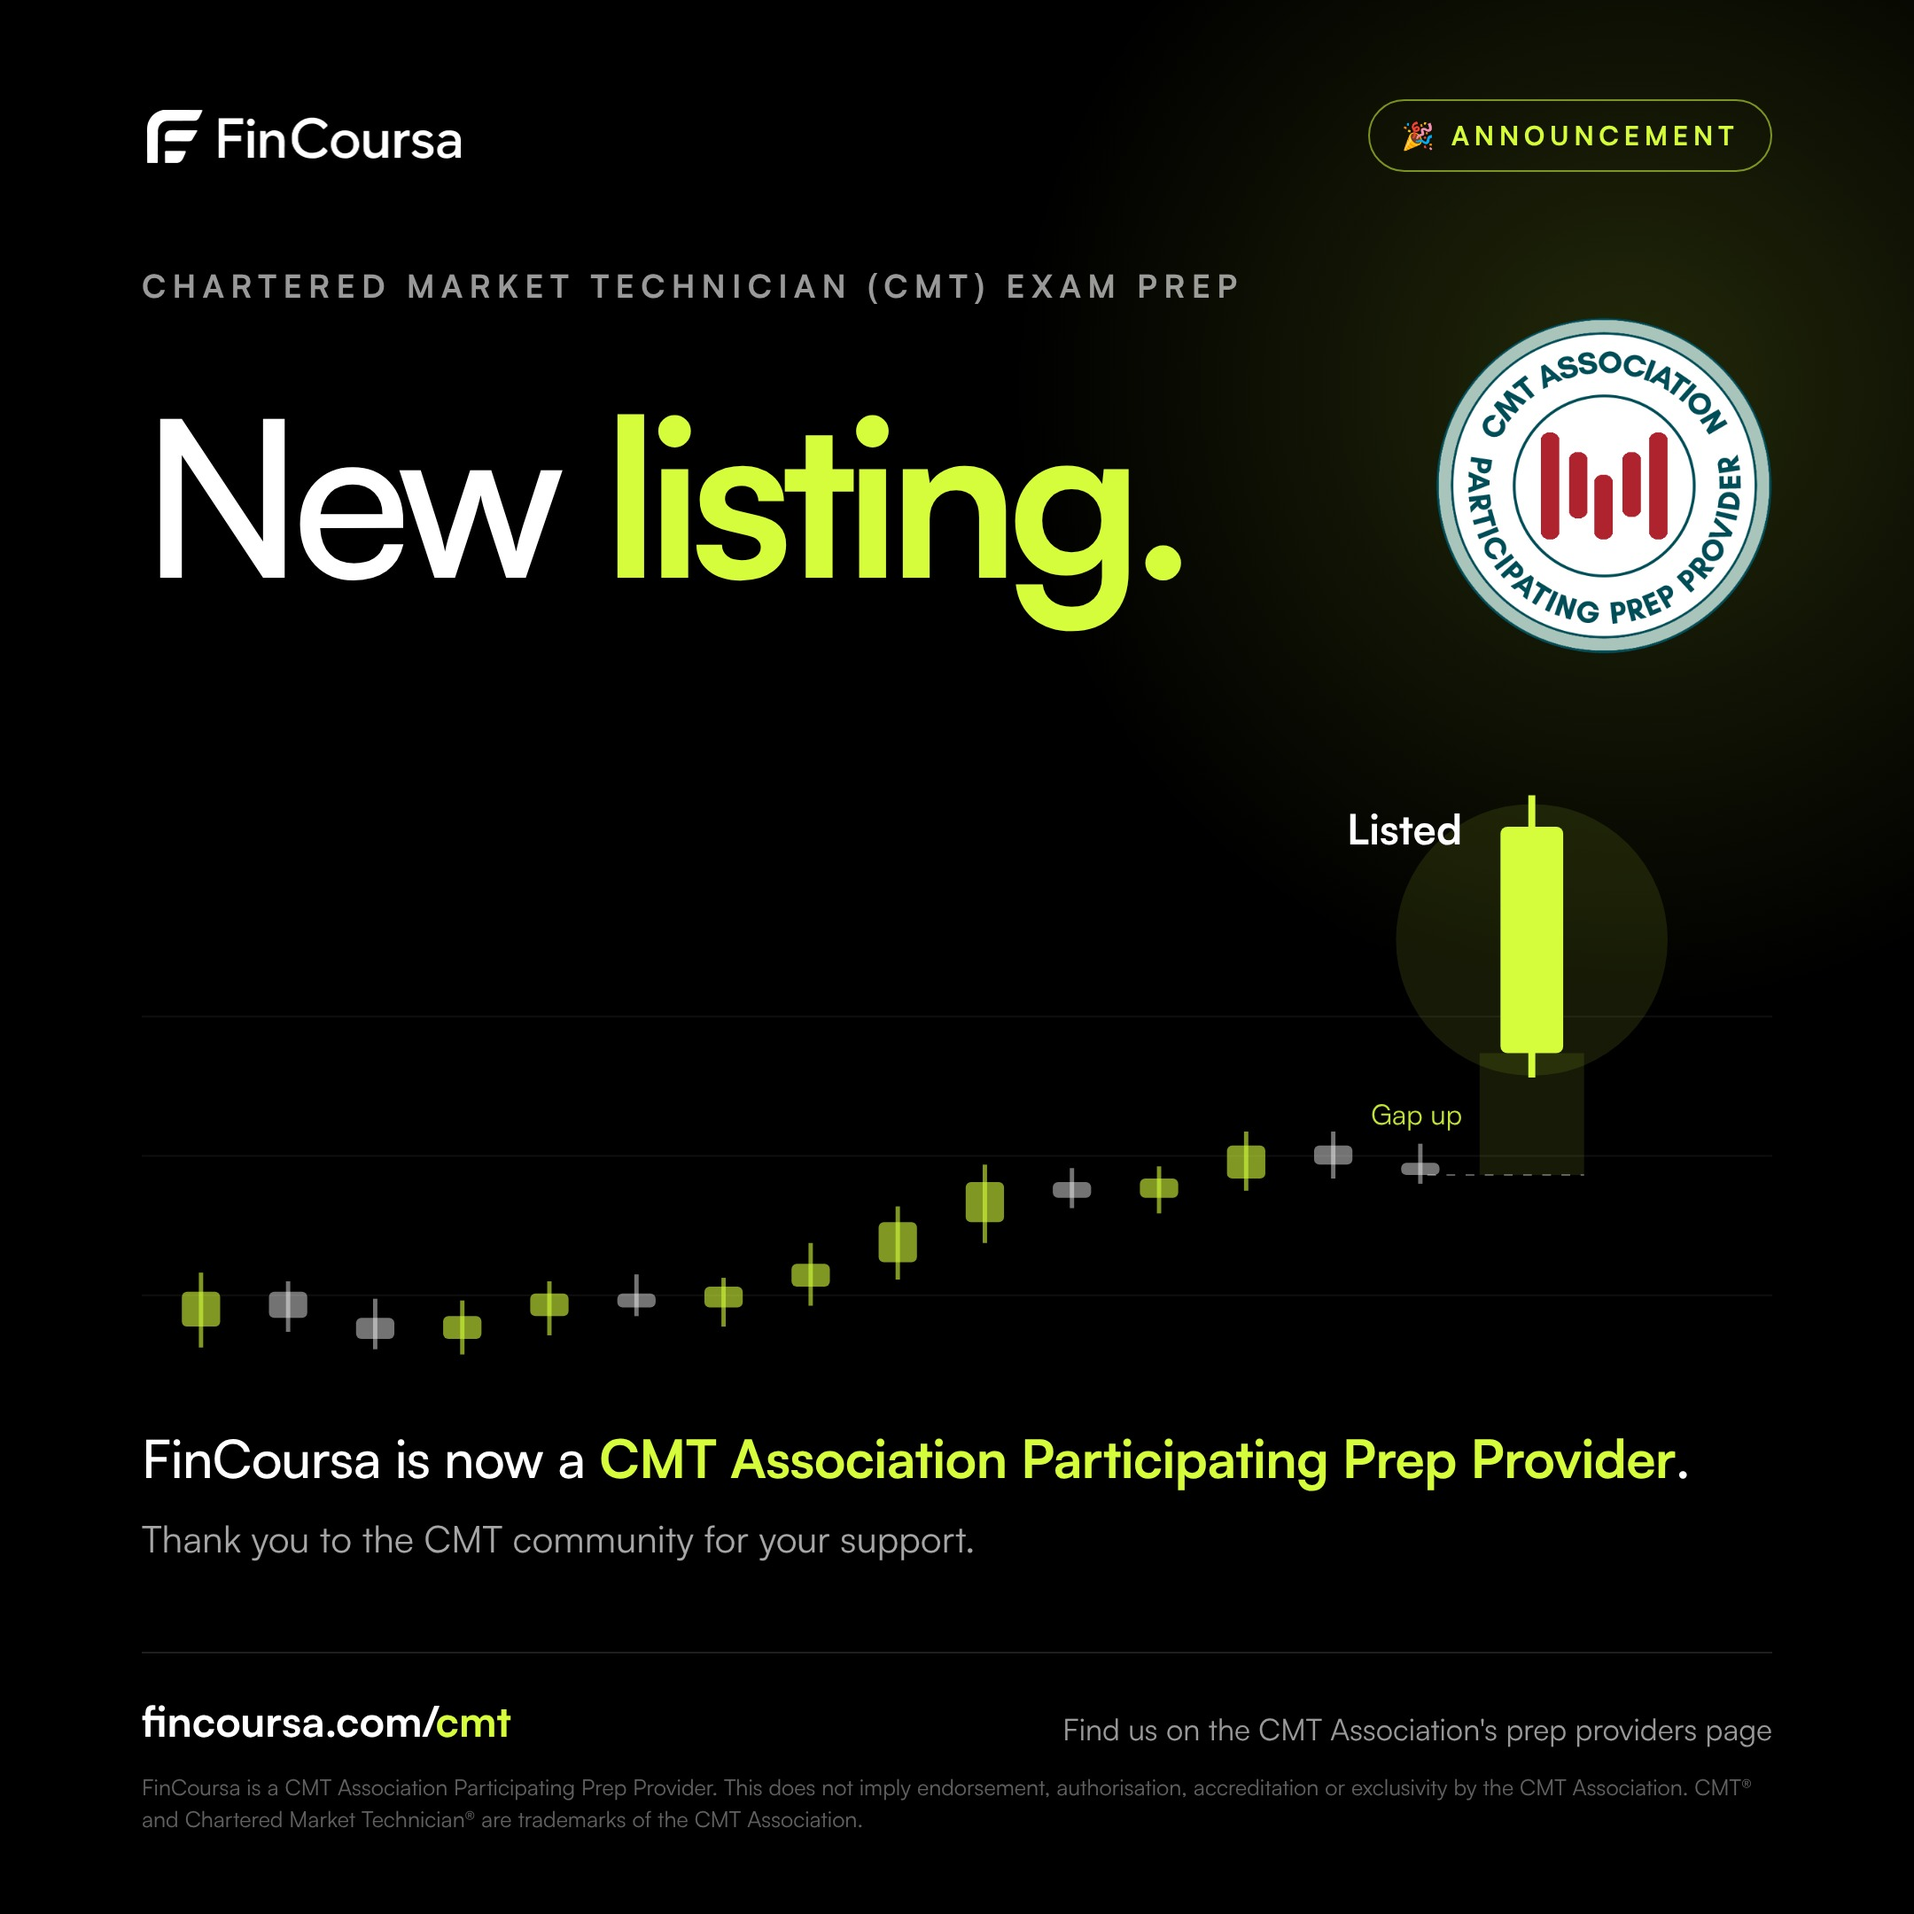
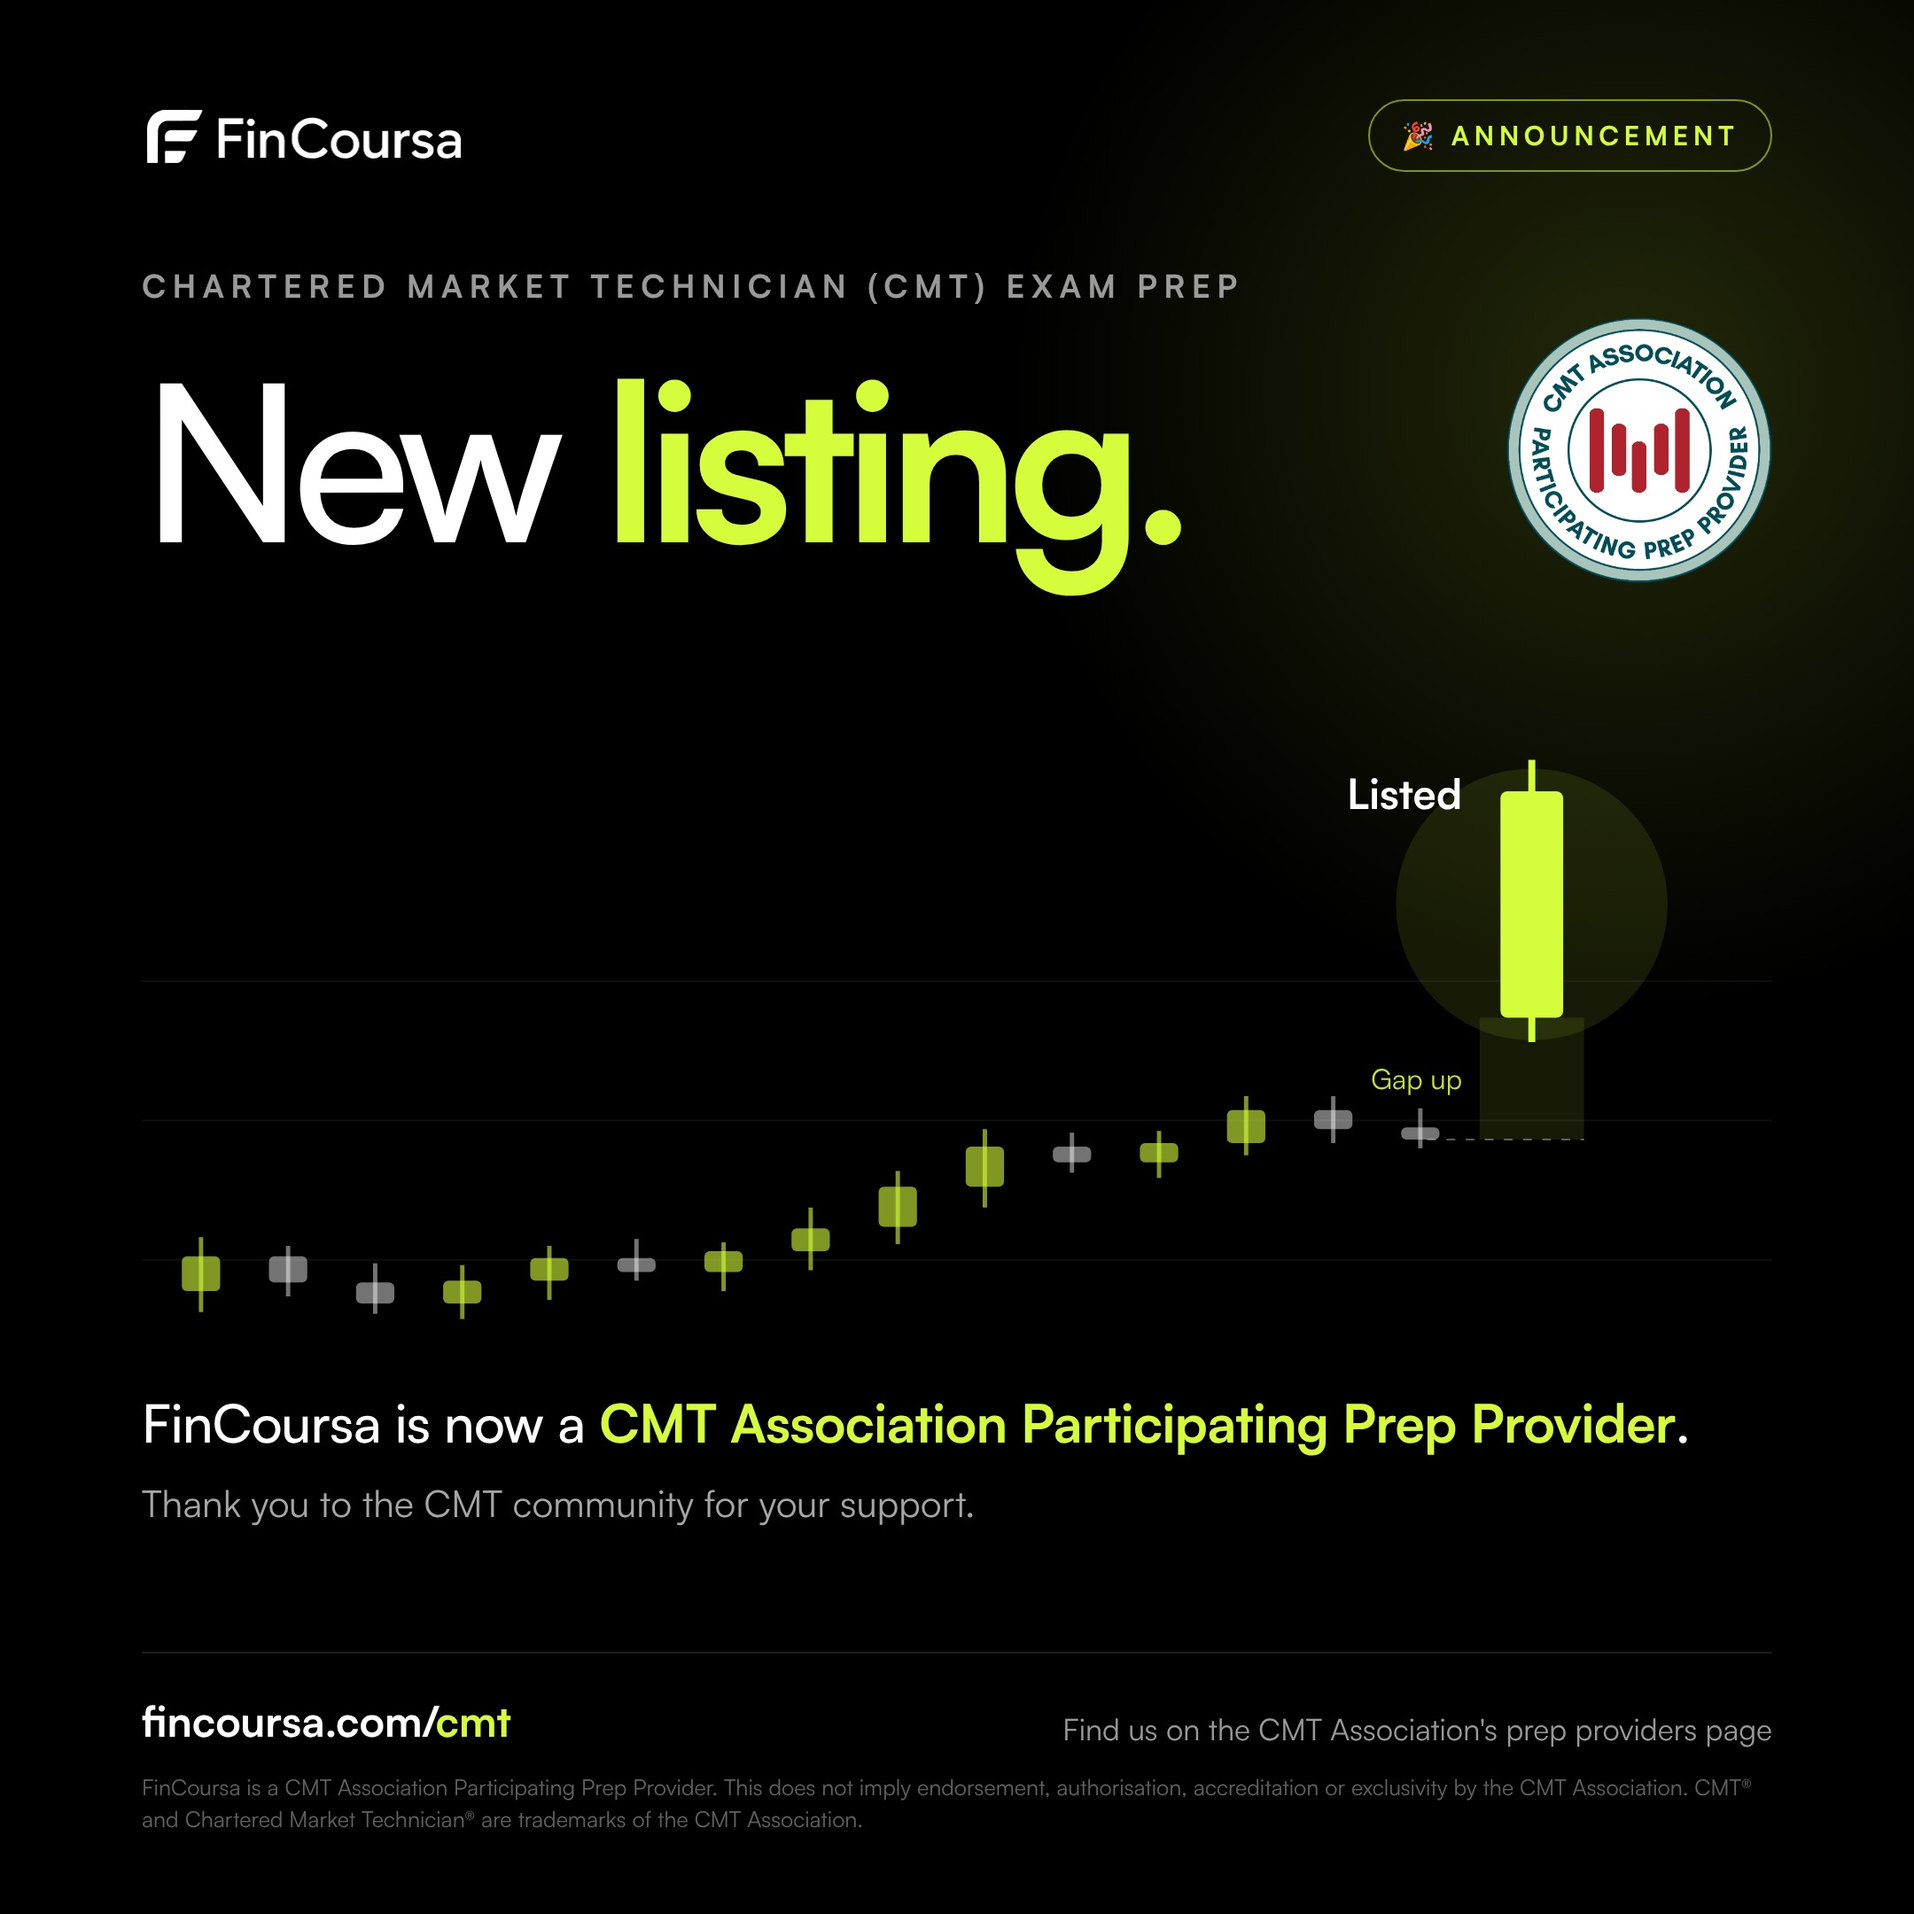
New Listing ad: smaller badge

diff --git a/linkedin/ad/ad-ppp3-portrait.html b/linkedin/ad/ad-ppp3-portrait.html
@@ -13,7 +13,7 @@ body{width:1080px;height:1350px;background:#000;font-family:"Satoshi",system-ui,
 .head{display:flex;justify-content:space-between;align-items:center;gap:24px}
 h1{margin-top:16px;font-size:138px;font-weight:500;line-height:.94;letter-spacing:-.05em}
 h1 em{font-style:normal;font-weight:700;color:#d6fd3b}
-.badge{height:220px;width:auto;margin-top:6px}
+.badge{height:176px;width:auto;margin-top:6px}
 .chart{display:block;margin-top:56px;width:100%;height:auto;overflow:visible}
 .msg{margin-top:56px;font-size:40px;line-height:1.3;font-weight:500;letter-spacing:-.01em;max-width:880px}
 .msg b{color:#d6fd3b;font-weight:700}

diff --git a/linkedin/ad/ad-ppp3-square.html b/linkedin/ad/ad-ppp3-square.html
@@ -13,7 +13,7 @@ body{width:1080px;height:1080px;background:#000;font-family:"Satoshi",system-ui,
 .head{display:flex;justify-content:space-between;align-items:center;gap:24px}
 h1{margin-top:16px;font-size:124px;font-weight:500;line-height:.94;letter-spacing:-.05em}
 h1 em{font-style:normal;font-weight:700;color:#d6fd3b}
-.badge{height:190px;width:auto;margin-top:6px}
+.badge{height:150px;width:auto;margin-top:6px}
 .chart{display:block;margin-top:18px;width:100%;height:auto;overflow:visible}
 .msg{margin-top:14px;font-size:30px;line-height:1.3;font-weight:500;letter-spacing:-.01em;max-width:880px}
 .msg b{color:#d6fd3b;font-weight:700}
